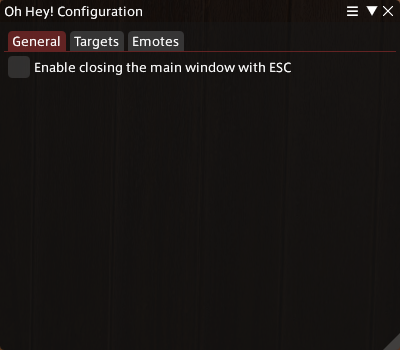
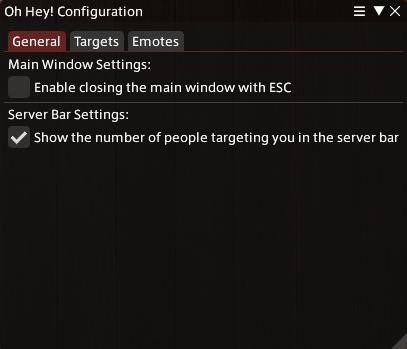
Update documentation

diff --git a/docs/Settings.md b/docs/Settings.md
@@ -45,6 +45,8 @@ The general settings mainly include some miscellaneous settings that aren't dire
 
 ![General Settings](resources/SettingsWindowGeneral.png)
 
+### Main Window Settings
+
 <ins>***Enable closing the main window with ESC*** </ins>
 
 **Default:** *disabled*
@@ -55,6 +57,18 @@ If this box is unchecked the window can only be closed by using the `X` button i
 > [!CAUTION]
 > If you enable this setting, the main window will not work as an overlay anymore.
 
+### Server Bar Settings
+
+<ins>***Show the number of people targeting you in the server bar***</ins>
+
+![Server Bar Icon](resources/ServerBarIcon.png)\
+*(The icon in the server bar)*
+
+**Default:** *disabled*
+
+This setting enables or disables the display of the number of people currently targeting you in the server bar.\
+When you hover over it, you will see a list of people targeting you.\
+Additionally you can click on the icon in the server bar to open the plugin's main window.
 
 ## Target Settings
 <sup>[[Back to top]](#settings)</sup>
@@ -71,6 +85,7 @@ The targets tab includes all settings related to target notifications.
 **Default:** *enabled*
 
 If this is enabled, the plugin will notify you when someone targets you.\
+Additionally, the player name in the notification is clickable in chat.\
 ![Target Notification](resources/TargetNotification.png)
 
 > [!CAUTION]
@@ -137,6 +152,7 @@ The emote tab contains all settings related to emote notifications.
 **Default:** *enabled*
 
 If this is enabled, the plugin will notify you when someone emotes at you.\
+Additionally, the player name in the notification is clickable in chat.\
 ![Emote Notification](resources/EmoteNotification.png)
 
 > [!CAUTION]